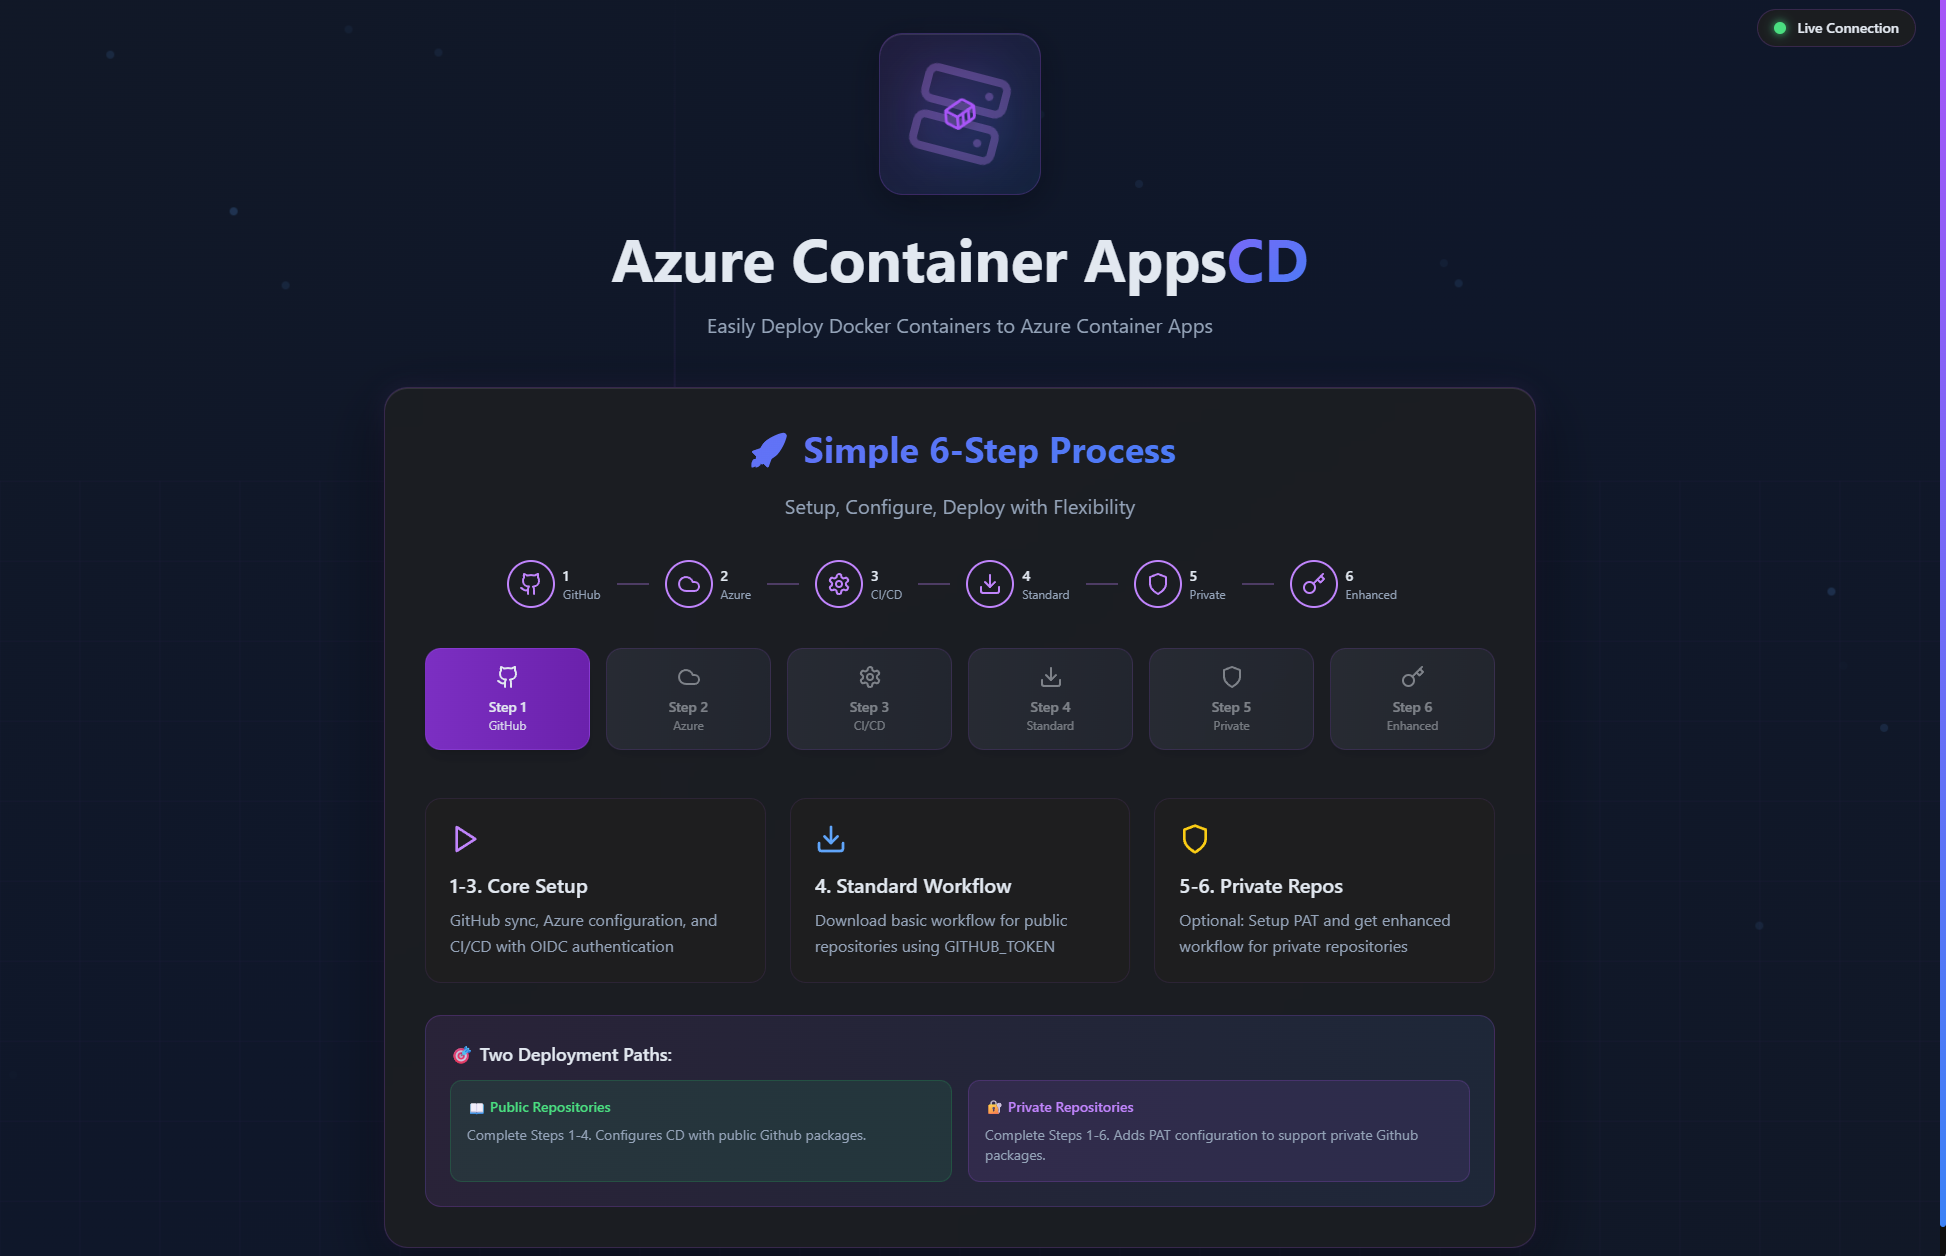
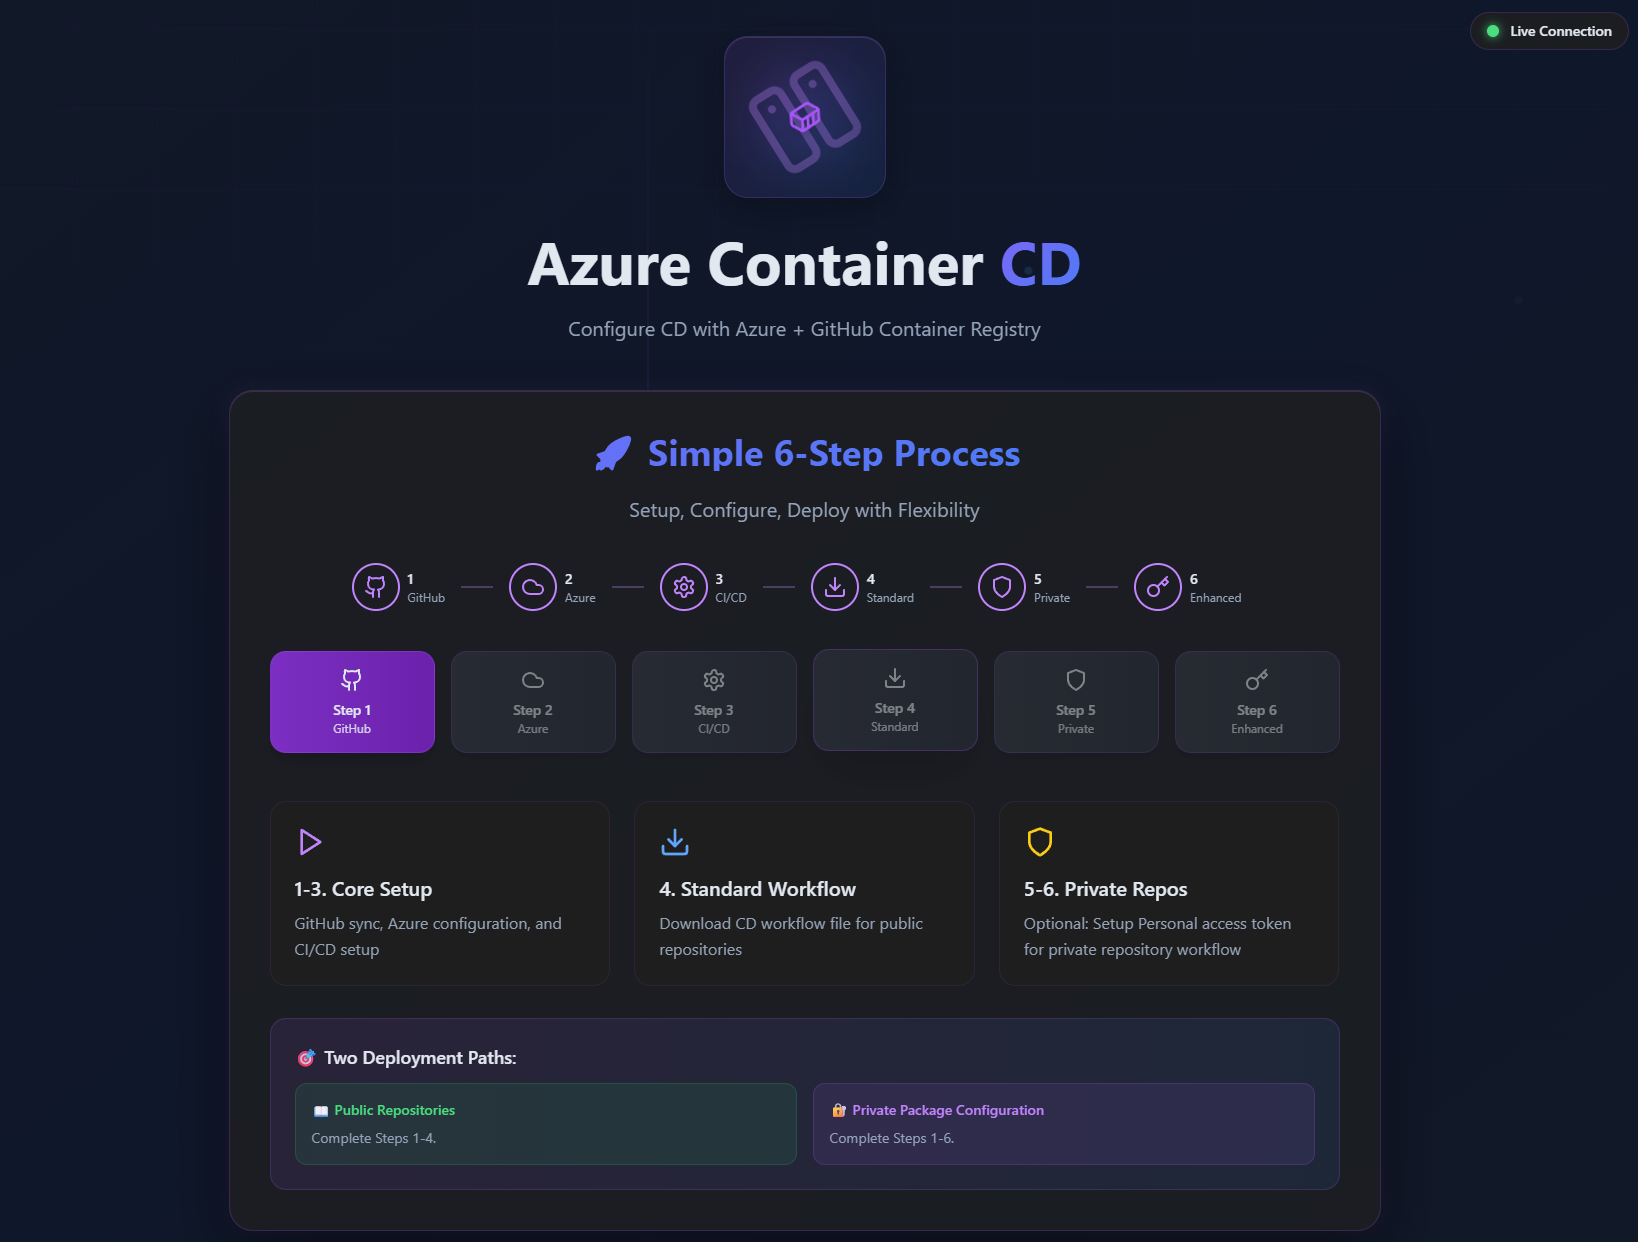
Ready for Production

diff --git a/App.jsx b/App.jsx
@@ -676,34 +676,41 @@ jobs:
       },
       {
         id: Date.now() + 3,
-        message: '   → Select scopes: read:packages, write:packages',
+        message: '   → Go to GitHub → Settings → Developer settings → Personal access tokens',
         level: 'info',
         timestamp: new Date().toISOString(),
         logType: 'private-repo-setup'
       },
       {
         id: Date.now() + 4,
-        message: '🎯 Step 2: Add PAT to Repository Secrets',
+        message: '   → Select scopes: read:packages, write:packages',
         level: 'info',
         timestamp: new Date().toISOString(),
         logType: 'private-repo-setup'
       },
       {
         id: Date.now() + 5,
-        message: '   → Repository → Settings → Secrets and variables → Actions',
+        message: '🎯 Step 2: Add PAT to Repository Secrets',
         level: 'info',
         timestamp: new Date().toISOString(),
         logType: 'private-repo-setup'
       },
       {
         id: Date.now() + 6,
-        message: '   → Add secret: GHCR_TOKEN = your-pat-token',
+        message: '   → Repository → Settings → Secrets and variables → Actions',
         level: 'info',
         timestamp: new Date().toISOString(),
         logType: 'private-repo-setup'
       },
       {
         id: Date.now() + 7,
+        message: '   → Add secret: GHCR_TOKEN = your-pat-token',
+        level: 'info',
+        timestamp: new Date().toISOString(),
+        logType: 'private-repo-setup'
+      },
+      {
+        id: Date.now() + 8,
         message: '✅ Once completed, proceed to Step 6 for enhanced workflow',
         level: 'success',
         timestamp: new Date().toISOString(),
@@ -1061,7 +1068,7 @@ jobs:
             animate={{ opacity: 1 }}
             transition={{ delay: 0.3, duration: 0.8 }}
           >
-            Azure Container <span className="retro-text">Deployment</span>
+            Azure Container <span className="retro-text">CD</span>
           </motion.h1>
           <motion.p 
             className="text-xl text-retro-secondary"
@@ -1069,7 +1076,7 @@ jobs:
             animate={{ opacity: 1 }}
             transition={{ delay: 0.5, duration: 0.8 }}
           >
-            6 Simple Steps to Azure Container Apps
+            Configure CD with Azure + GitHub Container Registry
           </motion.p>
         </motion.header>
 
@@ -1349,17 +1356,17 @@ jobs:
               <div className="info-card-retro rounded-2xl p-6">
                 <Play className="w-8 h-8 text-purple-400 mb-4" />
                 <h3 className="text-xl font-semibold text-retro-primary mb-2">1-3. Core Setup</h3>
-                <p className="text-retro-secondary">GitHub sync, Azure configuration, and CI/CD with OIDC authentication</p>
+                <p className="text-retro-secondary">GitHub sync, Azure configuration, and CI/CD setup</p>
               </div>
               <div className="info-card-retro rounded-2xl p-6">
                 <Download className="w-8 h-8 text-blue-400 mb-4" />
                 <h3 className="text-xl font-semibold text-retro-primary mb-2">4. Standard Workflow</h3>
-                <p className="text-retro-secondary">Download basic workflow for public repositories using GITHUB_TOKEN</p>
+                <p className="text-retro-secondary">Download CD workflow file for public repositories</p>
               </div>
               <div className="info-card-retro rounded-2xl p-6">
                 <Shield className="w-8 h-8 text-yellow-400 mb-4" />
                 <h3 className="text-xl font-semibold text-retro-primary mb-2">5-6. Private Repos</h3>
-                <p className="text-retro-secondary">Optional: Setup PAT and get enhanced workflow for private repositories</p>
+                <p className="text-retro-secondary">Optional: Setup Personal access token for private repository workflow</p>
               </div>
             </motion.div>
 
@@ -1374,11 +1381,11 @@ jobs:
               <div className="grid md:grid-cols-2 gap-4 text-sm">
                 <div className="bg-green-500/10 border border-green-500/20 rounded-xl p-4">
                   <h4 className="font-semibold text-green-400 mb-2">📖 Public Repositories</h4>
-                  <p className="text-retro-secondary">Complete Steps 1-4. Uses GITHUB_TOKEN for everything. Simple and secure.</p>
+                  <p className="text-retro-secondary">Complete Steps 1-4.</p>
                 </div>
                 <div className="bg-purple-500/10 border border-purple-500/20 rounded-xl p-4">
-                  <h4 className="font-semibold text-purple-400 mb-2">🔐 Private Repositories</h4>
-                  <p className="text-retro-secondary">Complete Steps 1-6. Adds PAT configuration for persistent Azure access.</p>
+                  <h4 className="font-semibold text-purple-400 mb-2">🔐 Private Package Configuration</h4>
+                  <p className="text-retro-secondary">Complete Steps 1-6.</p>
                 </div>
               </div>
             </motion.div>
